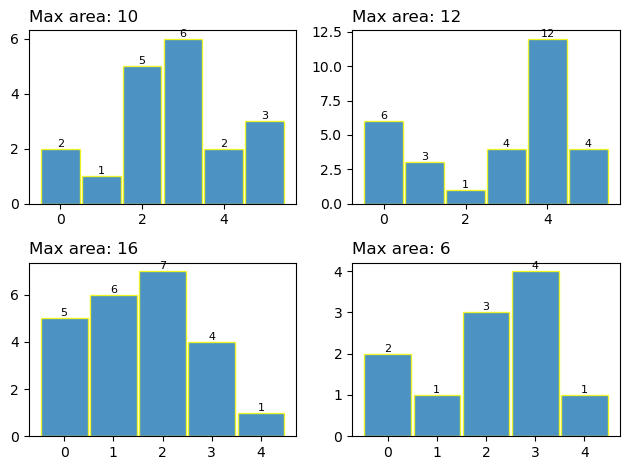
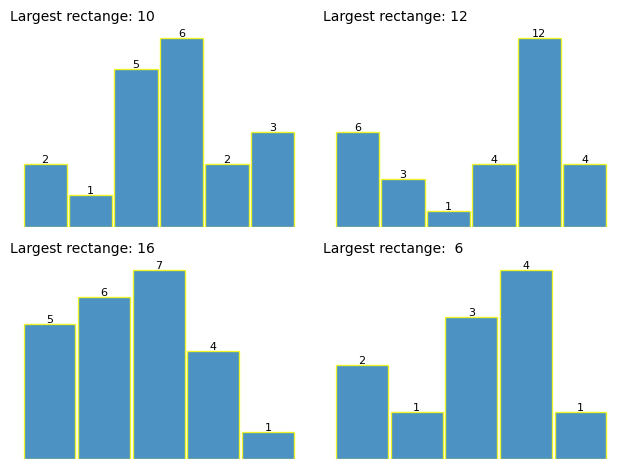
Built site for gh-pages

diff --git a/posts/algorithims/histogram_max_area.html b/posts/algorithims/histogram_max_area.html
@@ -180,7 +180,10 @@ pre > code.sourceCode > span > a:first-child::before { text-decoration: underlin
   <ul>
   <li><a href="#largest-rectangle-under-a-histogram" id="toc-largest-rectangle-under-a-histogram" class="nav-link active" data-scroll-target="#largest-rectangle-under-a-histogram">Largest Rectangle under a histogram</a>
   <ul class="collapse">
-  <li><a href="#a-simple-solution" id="toc-a-simple-solution" class="nav-link" data-scroll-target="#a-simple-solution">A simple solution</a></li>
+  <li><a href="#a-simple-solution" id="toc-a-simple-solution" class="nav-link" data-scroll-target="#a-simple-solution">A simple solution</a>
+  <ul class="collapse">
+  <li><a href="#visuals" id="toc-visuals" class="nav-link" data-scroll-target="#visuals">Visuals</a></li>
+  </ul></li>
   <li><a href="#using-stacks" id="toc-using-stacks" class="nav-link" data-scroll-target="#using-stacks">Using stacks</a></li>
   </ul></li>
   </ul>
@@ -195,7 +198,7 @@ pre > code.sourceCode > span > a:first-child::before { text-decoration: underlin
 <section id="largest-rectangle-under-a-histogram" class="level1">
 <h1>Largest Rectangle under a histogram</h1>
 <p>Problem description: https://leetcode.com/problems/largest-rectangle-in-histogram/</p>
-<div class="cell" data-execution_count="59">
+<div class="cell" data-execution_count="10">
 <div class="sourceCode cell-code" id="cb1"><pre class="sourceCode python code-with-copy"><code class="sourceCode python"><span id="cb1-1"><a href="#cb1-1" aria-hidden="true" tabindex="-1"></a>tests <span class="op">=</span> (</span>
 <span id="cb1-2"><a href="#cb1-2" aria-hidden="true" tabindex="-1"></a>    ([<span class="dv">2</span>, <span class="dv">1</span>, <span class="dv">5</span>, <span class="dv">6</span>, <span class="dv">2</span>, <span class="dv">3</span>], <span class="dv">10</span>),</span>
 <span id="cb1-3"><a href="#cb1-3" aria-hidden="true" tabindex="-1"></a>    ([<span class="dv">6</span>, <span class="dv">3</span>, <span class="dv">1</span>, <span class="dv">4</span>, <span class="dv">12</span>, <span class="dv">4</span>], <span class="dv">12</span>),</span>
@@ -204,20 +207,21 @@ pre > code.sourceCode > span > a:first-child::before { text-decoration: underlin
 <span id="cb1-6"><a href="#cb1-6" aria-hidden="true" tabindex="-1"></a>)</span></code><button title="Copy to Clipboard" class="code-copy-button"><i class="bi"></i></button></pre></div>
 </div>
 <p>Which look like:</p>
-<div class="cell" data-execution_count="60">
+<div class="cell" data-execution_count="11">
 <details>
 <summary>Code</summary>
 <div class="sourceCode cell-code" id="cb2"><pre class="sourceCode python code-with-copy"><code class="sourceCode python"><span id="cb2-1"><a href="#cb2-1" aria-hidden="true" tabindex="-1"></a>fig, axes <span class="op">=</span> plt.subplots(<span class="dv">2</span>, <span class="dv">2</span>, layout<span class="op">=</span><span class="st">"tight"</span>)</span>
 <span id="cb2-2"><a href="#cb2-2" aria-hidden="true" tabindex="-1"></a><span class="cf">for</span> ax, (arr, ans) <span class="kw">in</span> <span class="bu">zip</span>(axes.flatten(), tests):</span>
-<span id="cb2-3"><a href="#cb2-3" aria-hidden="true" tabindex="-1"></a>    bar <span class="op">=</span> ax.bar(</span>
-<span id="cb2-4"><a href="#cb2-4" aria-hidden="true" tabindex="-1"></a>        <span class="bu">range</span>(<span class="bu">len</span>(arr)),</span>
-<span id="cb2-5"><a href="#cb2-5" aria-hidden="true" tabindex="-1"></a>        arr,</span>
-<span id="cb2-6"><a href="#cb2-6" aria-hidden="true" tabindex="-1"></a>        width<span class="op">=</span><span class="fl">0.95</span>,</span>
-<span id="cb2-7"><a href="#cb2-7" aria-hidden="true" tabindex="-1"></a>        alpha<span class="op">=</span><span class="fl">0.8</span>,</span>
-<span id="cb2-8"><a href="#cb2-8" aria-hidden="true" tabindex="-1"></a>        edgecolor<span class="op">=</span><span class="st">"yellow"</span>,</span>
-<span id="cb2-9"><a href="#cb2-9" aria-hidden="true" tabindex="-1"></a>    )</span>
-<span id="cb2-10"><a href="#cb2-10" aria-hidden="true" tabindex="-1"></a>    ax.set_title(<span class="ss">f"Max area: </span><span class="sc">{</span>ans<span class="sc">}</span><span class="ss">"</span>, loc<span class="op">=</span><span class="st">"left"</span>)</span>
-<span id="cb2-11"><a href="#cb2-11" aria-hidden="true" tabindex="-1"></a>    ax.bar_label(bar, fontsize<span class="op">=</span><span class="dv">8</span>)</span></code><button title="Copy to Clipboard" class="code-copy-button"><i class="bi"></i></button></pre></div>
+<span id="cb2-3"><a href="#cb2-3" aria-hidden="true" tabindex="-1"></a>    ax.set_axis_off()</span>
+<span id="cb2-4"><a href="#cb2-4" aria-hidden="true" tabindex="-1"></a>    bar <span class="op">=</span> ax.bar(</span>
+<span id="cb2-5"><a href="#cb2-5" aria-hidden="true" tabindex="-1"></a>        <span class="bu">range</span>(<span class="bu">len</span>(arr)),</span>
+<span id="cb2-6"><a href="#cb2-6" aria-hidden="true" tabindex="-1"></a>        arr,</span>
+<span id="cb2-7"><a href="#cb2-7" aria-hidden="true" tabindex="-1"></a>        width<span class="op">=</span><span class="fl">0.95</span>,</span>
+<span id="cb2-8"><a href="#cb2-8" aria-hidden="true" tabindex="-1"></a>        alpha<span class="op">=</span><span class="fl">0.8</span>,</span>
+<span id="cb2-9"><a href="#cb2-9" aria-hidden="true" tabindex="-1"></a>        edgecolor<span class="op">=</span><span class="st">"yellow"</span>,</span>
+<span id="cb2-10"><a href="#cb2-10" aria-hidden="true" tabindex="-1"></a>    )</span>
+<span id="cb2-11"><a href="#cb2-11" aria-hidden="true" tabindex="-1"></a>    ax.set_title(<span class="ss">f"Largest rectange: </span><span class="sc">{</span>ans<span class="sc">:2}</span><span class="ss">"</span>, loc<span class="op">=</span><span class="st">"left"</span>, fontsize<span class="op">=</span><span class="dv">10</span>)</span>
+<span id="cb2-12"><a href="#cb2-12" aria-hidden="true" tabindex="-1"></a>    ax.bar_label(bar, fontsize<span class="op">=</span><span class="dv">8</span>)</span></code><button title="Copy to Clipboard" class="code-copy-button"><i class="bi"></i></button></pre></div>
 </details>
 <div class="cell-output cell-output-display">
 <p><img src="histogram_max_area_files/figure-html/cell-4-output-1.png" class="img-fluid"></p>
@@ -225,11 +229,16 @@ pre > code.sourceCode > span > a:first-child::before { text-decoration: underlin
 </div>
 <section id="a-simple-solution" class="level2">
 <h2 class="anchored" data-anchor-id="a-simple-solution">A simple solution</h2>
-<p>We can brute force this by generating all possible rectangles in the histogram.</p>
+<p>We can brute force this by generating the largest possible rectangle at every item in the array.</p>
 <p>I’m doing a simple alogrithm here:</p>
-<p>For each N in the arry: find the left and right boundary of the largest possible rectangle this gives us the width, which we multiple by N to get the area</p>
-<div class="cell" data-execution_count="185">
-<div class="sourceCode cell-code" id="cb3"><pre class="sourceCode python code-with-copy"><code class="sourceCode python"><span id="cb3-1"><a href="#cb3-1" aria-hidden="true" tabindex="-1"></a><span class="kw">def</span> find_boundary(idx: <span class="bu">int</span>, arr, debug<span class="op">=</span><span class="va">False</span>) <span class="op">-&gt;</span> <span class="bu">tuple</span>[<span class="bu">int</span>, <span class="bu">int</span>]:</span>
+<p>For each N in the arry:</p>
+<ul>
+<li>find the left and right boundary of the largest possible rectangle</li>
+<li>this gives us the width, exluding the width of N itself (adding 1 to ad back N)</li>
+<li>so now we have the width, and the height is just the value N in the array</li>
+</ul>
+<div class="cell" data-execution_count="12">
+<div class="sourceCode cell-code" id="cb3"><pre class="sourceCode python code-with-copy"><code class="sourceCode python"><span id="cb3-1"><a href="#cb3-1" aria-hidden="true" tabindex="-1"></a><span class="kw">def</span> find_boundary(idx: <span class="bu">int</span>, arr: <span class="bu">list</span>[<span class="bu">int</span>]) <span class="op">-&gt;</span> <span class="bu">tuple</span>[<span class="bu">int</span>, <span class="bu">int</span>]:</span>
 <span id="cb3-2"><a href="#cb3-2" aria-hidden="true" tabindex="-1"></a>    <span class="co">"""</span></span>
 <span id="cb3-3"><a href="#cb3-3" aria-hidden="true" tabindex="-1"></a><span class="co">    Example:</span></span>
 <span id="cb3-4"><a href="#cb3-4" aria-hidden="true" tabindex="-1"></a><span class="co">        idx 2 for [2, 1, 5, 6, 2, 3] returns (2, 3)</span></span>
@@ -238,35 +247,37 @@ pre > code.sourceCode > span > a:first-child::before { text-decoration: underlin
 <span id="cb3-7"><a href="#cb3-7" aria-hidden="true" tabindex="-1"></a><span class="co">    """</span></span>
 <span id="cb3-8"><a href="#cb3-8" aria-hidden="true" tabindex="-1"></a></span>
 <span id="cb3-9"><a href="#cb3-9" aria-hidden="true" tabindex="-1"></a>    <span class="co"># find left boundary (can be itself)</span></span>
-<span id="cb3-10"><a href="#cb3-10" aria-hidden="true" tabindex="-1"></a>    left <span class="op">=</span> <span class="dv">0</span>  <span class="co">#</span></span>
+<span id="cb3-10"><a href="#cb3-10" aria-hidden="true" tabindex="-1"></a>    left <span class="op">=</span> <span class="dv">0</span></span>
 <span id="cb3-11"><a href="#cb3-11" aria-hidden="true" tabindex="-1"></a>    <span class="cf">if</span> idx <span class="op">==</span> left:</span>
-<span id="cb3-12"><a href="#cb3-12" aria-hidden="true" tabindex="-1"></a>        <span class="cf">pass</span>  <span class="co"># at left edge, so left = 0</span></span>
+<span id="cb3-12"><a href="#cb3-12" aria-hidden="true" tabindex="-1"></a>        <span class="cf">pass</span>  <span class="co"># deals with the left edge</span></span>
 <span id="cb3-13"><a href="#cb3-13" aria-hidden="true" tabindex="-1"></a>    <span class="cf">else</span>:</span>
-<span id="cb3-14"><a href="#cb3-14" aria-hidden="true" tabindex="-1"></a>        <span class="cf">for</span> j <span class="kw">in</span> <span class="bu">range</span>(idx <span class="op">-</span> <span class="dv">1</span>, <span class="op">-</span><span class="dv">1</span>, <span class="op">-</span><span class="dv">1</span>):</span>
-<span id="cb3-15"><a href="#cb3-15" aria-hidden="true" tabindex="-1"></a>            <span class="cf">if</span> arr[j] <span class="op">&lt;</span> arr[idx]:</span>
-<span id="cb3-16"><a href="#cb3-16" aria-hidden="true" tabindex="-1"></a>                left <span class="op">=</span> j <span class="op">+</span> <span class="dv">1</span></span>
-<span id="cb3-17"><a href="#cb3-17" aria-hidden="true" tabindex="-1"></a>                <span class="co"># exit the for loop once the first left boundary is found</span></span>
-<span id="cb3-18"><a href="#cb3-18" aria-hidden="true" tabindex="-1"></a>                <span class="cf">break</span></span>
+<span id="cb3-14"><a href="#cb3-14" aria-hidden="true" tabindex="-1"></a>        <span class="co"># march leftwards all the way to zero:</span></span>
+<span id="cb3-15"><a href="#cb3-15" aria-hidden="true" tabindex="-1"></a>        <span class="cf">for</span> j <span class="kw">in</span> <span class="bu">range</span>(idx <span class="op">-</span> <span class="dv">1</span>, <span class="op">-</span><span class="dv">1</span>, <span class="op">-</span><span class="dv">1</span>):</span>
+<span id="cb3-16"><a href="#cb3-16" aria-hidden="true" tabindex="-1"></a>            <span class="cf">if</span> arr[j] <span class="op">&lt;</span> arr[idx]:</span>
+<span id="cb3-17"><a href="#cb3-17" aria-hidden="true" tabindex="-1"></a>                left <span class="op">=</span> j <span class="op">+</span> <span class="dv">1</span>  <span class="co"># adding 1 to exlude smaller item</span></span>
+<span id="cb3-18"><a href="#cb3-18" aria-hidden="true" tabindex="-1"></a>                <span class="cf">break</span>  <span class="co"># exit loop once the first boundary found</span></span>
 <span id="cb3-19"><a href="#cb3-19" aria-hidden="true" tabindex="-1"></a></span>
 <span id="cb3-20"><a href="#cb3-20" aria-hidden="true" tabindex="-1"></a>    <span class="co"># find right boundary (can be itself)</span></span>
-<span id="cb3-21"><a href="#cb3-21" aria-hidden="true" tabindex="-1"></a>    right <span class="op">=</span> <span class="bu">len</span>(arr) <span class="op">-</span> <span class="dv">1</span>  <span class="co"># default value</span></span>
+<span id="cb3-21"><a href="#cb3-21" aria-hidden="true" tabindex="-1"></a>    right <span class="op">=</span> <span class="bu">len</span>(arr) <span class="op">-</span> <span class="dv">1</span>  <span class="co"># deal with the right edge</span></span>
 <span id="cb3-22"><a href="#cb3-22" aria-hidden="true" tabindex="-1"></a></span>
 <span id="cb3-23"><a href="#cb3-23" aria-hidden="true" tabindex="-1"></a>    <span class="cf">if</span> idx <span class="op">==</span> right:</span>
-<span id="cb3-24"><a href="#cb3-24" aria-hidden="true" tabindex="-1"></a>        <span class="cf">pass</span>  <span class="co"># at right edge already, ro right = rightmost idx</span></span>
+<span id="cb3-24"><a href="#cb3-24" aria-hidden="true" tabindex="-1"></a>        <span class="cf">pass</span>  <span class="co"># at right edge already</span></span>
 <span id="cb3-25"><a href="#cb3-25" aria-hidden="true" tabindex="-1"></a>    <span class="cf">else</span>:</span>
-<span id="cb3-26"><a href="#cb3-26" aria-hidden="true" tabindex="-1"></a>        <span class="cf">for</span> j <span class="kw">in</span> <span class="bu">range</span>(idx, <span class="bu">len</span>(arr)):</span>
-<span id="cb3-27"><a href="#cb3-27" aria-hidden="true" tabindex="-1"></a>            <span class="cf">if</span> arr[j] <span class="op">&lt;</span> arr[idx]:</span>
-<span id="cb3-28"><a href="#cb3-28" aria-hidden="true" tabindex="-1"></a>                right <span class="op">=</span> j <span class="op">-</span> <span class="dv">1</span></span>
-<span id="cb3-29"><a href="#cb3-29" aria-hidden="true" tabindex="-1"></a>                <span class="cf">break</span></span>
-<span id="cb3-30"><a href="#cb3-30" aria-hidden="true" tabindex="-1"></a></span>
-<span id="cb3-31"><a href="#cb3-31" aria-hidden="true" tabindex="-1"></a>    <span class="cf">return</span> left, right</span>
-<span id="cb3-32"><a href="#cb3-32" aria-hidden="true" tabindex="-1"></a></span>
-<span id="cb3-33"><a href="#cb3-33" aria-hidden="true" tabindex="-1"></a><span class="co"># testing this for the first arrary in the tests</span></span>
-<span id="cb3-34"><a href="#cb3-34" aria-hidden="true" tabindex="-1"></a><span class="cf">for</span> arr, ans <span class="kw">in</span> tests:</span>
-<span id="cb3-35"><a href="#cb3-35" aria-hidden="true" tabindex="-1"></a>    <span class="bu">print</span>(<span class="st">"-----"</span>, arr, <span class="st">"---------"</span>)</span>
-<span id="cb3-36"><a href="#cb3-36" aria-hidden="true" tabindex="-1"></a>    <span class="cf">for</span> i <span class="kw">in</span> <span class="bu">range</span>(<span class="bu">len</span>(arr)):</span>
-<span id="cb3-37"><a href="#cb3-37" aria-hidden="true" tabindex="-1"></a>        <span class="bu">print</span>(i, arr[i], find_boundary(i, arr))</span>
-<span id="cb3-38"><a href="#cb3-38" aria-hidden="true" tabindex="-1"></a>    <span class="cf">break</span></span></code><button title="Copy to Clipboard" class="code-copy-button"><i class="bi"></i></button></pre></div>
+<span id="cb3-26"><a href="#cb3-26" aria-hidden="true" tabindex="-1"></a>        <span class="co"># march rightwards</span></span>
+<span id="cb3-27"><a href="#cb3-27" aria-hidden="true" tabindex="-1"></a>        <span class="cf">for</span> j <span class="kw">in</span> <span class="bu">range</span>(idx, <span class="bu">len</span>(arr)):</span>
+<span id="cb3-28"><a href="#cb3-28" aria-hidden="true" tabindex="-1"></a>            <span class="cf">if</span> arr[j] <span class="op">&lt;</span> arr[idx]:</span>
+<span id="cb3-29"><a href="#cb3-29" aria-hidden="true" tabindex="-1"></a>                right <span class="op">=</span> j <span class="op">-</span> <span class="dv">1</span>  <span class="co"># subtracting 1 to exclude the smaller item</span></span>
+<span id="cb3-30"><a href="#cb3-30" aria-hidden="true" tabindex="-1"></a>                <span class="cf">break</span></span>
+<span id="cb3-31"><a href="#cb3-31" aria-hidden="true" tabindex="-1"></a></span>
+<span id="cb3-32"><a href="#cb3-32" aria-hidden="true" tabindex="-1"></a>    <span class="cf">return</span> left, right</span>
+<span id="cb3-33"><a href="#cb3-33" aria-hidden="true" tabindex="-1"></a></span>
+<span id="cb3-34"><a href="#cb3-34" aria-hidden="true" tabindex="-1"></a></span>
+<span id="cb3-35"><a href="#cb3-35" aria-hidden="true" tabindex="-1"></a><span class="co"># testing this for the first arrary in the tests</span></span>
+<span id="cb3-36"><a href="#cb3-36" aria-hidden="true" tabindex="-1"></a><span class="cf">for</span> arr, ans <span class="kw">in</span> tests:</span>
+<span id="cb3-37"><a href="#cb3-37" aria-hidden="true" tabindex="-1"></a>    <span class="bu">print</span>(<span class="st">"-----"</span>, arr, <span class="st">"---------"</span>)</span>
+<span id="cb3-38"><a href="#cb3-38" aria-hidden="true" tabindex="-1"></a>    <span class="cf">for</span> i <span class="kw">in</span> <span class="bu">range</span>(<span class="bu">len</span>(arr)):</span>
+<span id="cb3-39"><a href="#cb3-39" aria-hidden="true" tabindex="-1"></a>        <span class="bu">print</span>(i, arr[i], find_boundary(i, arr))</span>
+<span id="cb3-40"><a href="#cb3-40" aria-hidden="true" tabindex="-1"></a>    <span class="cf">break</span></span></code><button title="Copy to Clipboard" class="code-copy-button"><i class="bi"></i></button></pre></div>
 <div class="cell-output cell-output-stdout">
 <pre><code>----- [2, 1, 5, 6, 2, 3] ---------
 0 2 (0, 0)
@@ -279,48 +290,119 @@ pre > code.sourceCode > span > a:first-child::before { text-decoration: underlin
 </div>
 <p>The <code>find_boundary</code> func is working, so now its easy to get the area of the max rectangle.</p>
 <p>The below function iterates through every item in the array, calculates the area of the largest rectangle at that point, and updates the max area function.</p>
-<div class="cell" data-execution_count="183">
-<div class="sourceCode cell-code" id="cb5"><pre class="sourceCode python code-with-copy"><code class="sourceCode python"><span id="cb5-1"><a href="#cb5-1" aria-hidden="true" tabindex="-1"></a><span class="kw">def</span> max_area(arr<span class="op">=</span>arr):</span>
+<div class="cell" data-execution_count="13">
+<div class="sourceCode cell-code" id="cb5"><pre class="sourceCode python code-with-copy"><code class="sourceCode python"><span id="cb5-1"><a href="#cb5-1" aria-hidden="true" tabindex="-1"></a><span class="kw">def</span> max_area(arr: <span class="bu">list</span>[<span class="bu">int</span>], viz: <span class="bu">bool</span> <span class="op">=</span> <span class="va">False</span>) <span class="op">-&gt;</span> <span class="bu">int</span>:</span>
 <span id="cb5-2"><a href="#cb5-2" aria-hidden="true" tabindex="-1"></a>    <span class="co">"""returns the area of the biggest rectangle"""</span></span>
 <span id="cb5-3"><a href="#cb5-3" aria-hidden="true" tabindex="-1"></a>    max_area <span class="op">=</span> <span class="dv">0</span></span>
-<span id="cb5-4"><a href="#cb5-4" aria-hidden="true" tabindex="-1"></a>    <span class="cf">for</span> i <span class="kw">in</span> <span class="bu">range</span>(<span class="bu">len</span>(arr)):</span>
-<span id="cb5-5"><a href="#cb5-5" aria-hidden="true" tabindex="-1"></a>        left, right <span class="op">=</span> find_boundary(i, arr)</span>
-<span id="cb5-6"><a href="#cb5-6" aria-hidden="true" tabindex="-1"></a>        <span class="co"># adding 1 to width as when we calc (right - left) it excludes itself</span></span>
-<span id="cb5-7"><a href="#cb5-7" aria-hidden="true" tabindex="-1"></a>        width <span class="op">=</span> <span class="dv">1</span> <span class="op">+</span> right <span class="op">-</span> left</span>
-<span id="cb5-8"><a href="#cb5-8" aria-hidden="true" tabindex="-1"></a>        max_area <span class="op">=</span> <span class="bu">max</span>(max_area, arr[i] <span class="op">*</span> width)</span>
-<span id="cb5-9"><a href="#cb5-9" aria-hidden="true" tabindex="-1"></a>    </span>
-<span id="cb5-10"><a href="#cb5-10" aria-hidden="true" tabindex="-1"></a>    <span class="cf">return</span> max_area</span>
-<span id="cb5-11"><a href="#cb5-11" aria-hidden="true" tabindex="-1"></a></span>
-<span id="cb5-12"><a href="#cb5-12" aria-hidden="true" tabindex="-1"></a><span class="cf">for</span> arr, ans <span class="kw">in</span> tests:</span>
-<span id="cb5-13"><a href="#cb5-13" aria-hidden="true" tabindex="-1"></a>    <span class="cf">assert</span> max_area(arr) <span class="op">==</span> ans</span></code><button title="Copy to Clipboard" class="code-copy-button"><i class="bi"></i></button></pre></div>
+<span id="cb5-4"><a href="#cb5-4" aria-hidden="true" tabindex="-1"></a>    max_idx <span class="op">=</span> <span class="va">None</span></span>
+<span id="cb5-5"><a href="#cb5-5" aria-hidden="true" tabindex="-1"></a></span>
+<span id="cb5-6"><a href="#cb5-6" aria-hidden="true" tabindex="-1"></a>    <span class="cf">for</span> i <span class="kw">in</span> <span class="bu">range</span>(<span class="bu">len</span>(arr)):</span>
+<span id="cb5-7"><a href="#cb5-7" aria-hidden="true" tabindex="-1"></a>        left, right <span class="op">=</span> find_boundary(i, arr)</span>
+<span id="cb5-8"><a href="#cb5-8" aria-hidden="true" tabindex="-1"></a>        <span class="co"># adding 1 to width as when we calc (right - left) it excludes itself</span></span>
+<span id="cb5-9"><a href="#cb5-9" aria-hidden="true" tabindex="-1"></a>        width <span class="op">=</span> <span class="dv">1</span> <span class="op">+</span> right <span class="op">-</span> left</span>
+<span id="cb5-10"><a href="#cb5-10" aria-hidden="true" tabindex="-1"></a></span>
+<span id="cb5-11"><a href="#cb5-11" aria-hidden="true" tabindex="-1"></a>        new_area <span class="op">=</span> arr[i] <span class="op">*</span> width</span>
+<span id="cb5-12"><a href="#cb5-12" aria-hidden="true" tabindex="-1"></a>        <span class="cf">if</span> new_area <span class="op">&gt;</span> max_area:</span>
+<span id="cb5-13"><a href="#cb5-13" aria-hidden="true" tabindex="-1"></a>            max_area <span class="op">=</span> new_area</span>
+<span id="cb5-14"><a href="#cb5-14" aria-hidden="true" tabindex="-1"></a>            max_idx <span class="op">=</span> i</span>
+<span id="cb5-15"><a href="#cb5-15" aria-hidden="true" tabindex="-1"></a></span>
+<span id="cb5-16"><a href="#cb5-16" aria-hidden="true" tabindex="-1"></a>    <span class="cf">if</span> viz:</span>
+<span id="cb5-17"><a href="#cb5-17" aria-hidden="true" tabindex="-1"></a>        <span class="cf">return</span> max_idx, max_area</span>
+<span id="cb5-18"><a href="#cb5-18" aria-hidden="true" tabindex="-1"></a>    <span class="cf">else</span>:</span>
+<span id="cb5-19"><a href="#cb5-19" aria-hidden="true" tabindex="-1"></a>        <span class="cf">return</span> max_area</span>
+<span id="cb5-20"><a href="#cb5-20" aria-hidden="true" tabindex="-1"></a></span>
+<span id="cb5-21"><a href="#cb5-21" aria-hidden="true" tabindex="-1"></a></span>
+<span id="cb5-22"><a href="#cb5-22" aria-hidden="true" tabindex="-1"></a><span class="cf">for</span> arr, ans <span class="kw">in</span> tests:</span>
+<span id="cb5-23"><a href="#cb5-23" aria-hidden="true" tabindex="-1"></a>    <span class="cf">assert</span> max_area(arr) <span class="op">==</span> ans</span>
+<span id="cb5-24"><a href="#cb5-24" aria-hidden="true" tabindex="-1"></a>    <span class="bu">print</span>(<span class="ss">f"</span><span class="sc">{</span>arr<span class="sc">}</span><span class="ss"> ----&gt; </span><span class="sc">{</span>max_area(arr)<span class="sc">}</span><span class="ss">"</span>)</span>
+<span id="cb5-25"><a href="#cb5-25" aria-hidden="true" tabindex="-1"></a><span class="bu">print</span>(<span class="ss">f"all </span><span class="sc">{</span><span class="bu">len</span>(tests)<span class="sc">}</span><span class="ss"> tests passed!"</span>)</span></code><button title="Copy to Clipboard" class="code-copy-button"><i class="bi"></i></button></pre></div>
+<div class="cell-output cell-output-stdout">
+<pre><code>[2, 1, 5, 6, 2, 3] ----&gt; 10
+[6, 3, 1, 4, 12, 4] ----&gt; 12
+[5, 6, 7, 4, 1] ----&gt; 16
+[2, 1, 3, 4, 1] ----&gt; 6
+all 4 tests passed!</code></pre>
 </div>
+</div>
+<p>That was pretty straight forward, though a bit verbose. Now an excercise in plotting this visually:</p>
+<section id="visuals" class="level3">
+<h3 class="anchored" data-anchor-id="visuals">Visuals</h3>
+<p>Using matplotlib to plot te max rectangle at every position of the array…</p>
+<p>Copied the plot code above and added a func to highlight the largest rectange:</p>
+<div class="cell" data-execution_count="17">
+<div class="sourceCode cell-code" id="cb7"><pre class="sourceCode python code-with-copy"><code class="sourceCode python"><span id="cb7-1"><a href="#cb7-1" aria-hidden="true" tabindex="-1"></a><span class="co"># to use to show different rectangele with diff colors and fills</span></span>
+<span id="cb7-2"><a href="#cb7-2" aria-hidden="true" tabindex="-1"></a>colors <span class="op">=</span> <span class="bu">list</span>(mcolors.TABLEAU_COLORS.values())</span>
+<span id="cb7-3"><a href="#cb7-3" aria-hidden="true" tabindex="-1"></a>hatches <span class="op">=</span> [<span class="st">"/"</span>, <span class="st">"</span><span class="ch">\\</span><span class="st">"</span>, <span class="st">"|"</span>, <span class="st">"-"</span>, <span class="st">"+"</span>, <span class="st">"x"</span>, <span class="st">"o"</span>, <span class="st">"O"</span>, <span class="st">"."</span>, <span class="st">"*"</span>]</span></code><button title="Copy to Clipboard" class="code-copy-button"><i class="bi"></i></button></pre></div>
+</div>
+<div class="cell" data-execution_count="15">
+<details>
+<summary>Code</summary>
+<div class="sourceCode cell-code" id="cb8"><pre class="sourceCode python code-with-copy"><code class="sourceCode python"><span id="cb8-1"><a href="#cb8-1" aria-hidden="true" tabindex="-1"></a>fig, axes <span class="op">=</span> plt.subplots(<span class="dv">2</span>, <span class="dv">2</span>, layout<span class="op">=</span><span class="st">"tight"</span>)</span>
+<span id="cb8-2"><a href="#cb8-2" aria-hidden="true" tabindex="-1"></a><span class="cf">for</span> ax, (arr, ans) <span class="kw">in</span> <span class="bu">zip</span>(axes.flatten(), tests):</span>
+<span id="cb8-3"><a href="#cb8-3" aria-hidden="true" tabindex="-1"></a>    ax.set_axis_off()</span>
+<span id="cb8-4"><a href="#cb8-4" aria-hidden="true" tabindex="-1"></a>    bar <span class="op">=</span> ax.bar(</span>
+<span id="cb8-5"><a href="#cb8-5" aria-hidden="true" tabindex="-1"></a>        <span class="bu">range</span>(<span class="bu">len</span>(arr)),</span>
+<span id="cb8-6"><a href="#cb8-6" aria-hidden="true" tabindex="-1"></a>        arr,</span>
+<span id="cb8-7"><a href="#cb8-7" aria-hidden="true" tabindex="-1"></a>        width<span class="op">=</span><span class="fl">0.95</span>,</span>
+<span id="cb8-8"><a href="#cb8-8" aria-hidden="true" tabindex="-1"></a>        alpha<span class="op">=</span><span class="fl">0.6</span>,</span>
+<span id="cb8-9"><a href="#cb8-9" aria-hidden="true" tabindex="-1"></a>        edgecolor<span class="op">=</span><span class="st">"yellow"</span>,</span>
+<span id="cb8-10"><a href="#cb8-10" aria-hidden="true" tabindex="-1"></a>    )</span>
+<span id="cb8-11"><a href="#cb8-11" aria-hidden="true" tabindex="-1"></a>    ax.set_title(<span class="ss">f"Largest rectange: </span><span class="sc">{</span>ans<span class="sc">:2}</span><span class="ss">"</span>, loc<span class="op">=</span><span class="st">"left"</span>, fontsize<span class="op">=</span><span class="dv">10</span>)</span>
+<span id="cb8-12"><a href="#cb8-12" aria-hidden="true" tabindex="-1"></a>    ax.bar_label(bar, fontsize<span class="op">=</span><span class="dv">8</span>)</span>
+<span id="cb8-13"><a href="#cb8-13" aria-hidden="true" tabindex="-1"></a></span>
+<span id="cb8-14"><a href="#cb8-14" aria-hidden="true" tabindex="-1"></a>    idx, area <span class="op">=</span> max_area(arr, <span class="va">True</span>)</span>
+<span id="cb8-15"><a href="#cb8-15" aria-hidden="true" tabindex="-1"></a></span>
+<span id="cb8-16"><a href="#cb8-16" aria-hidden="true" tabindex="-1"></a>    <span class="cf">for</span> i <span class="kw">in</span> <span class="bu">range</span>(<span class="bu">len</span>(arr)):</span>
+<span id="cb8-17"><a href="#cb8-17" aria-hidden="true" tabindex="-1"></a>        <span class="cf">if</span> i <span class="op">==</span> idx:  <span class="co"># got too messy plotting all the rects</span></span>
+<span id="cb8-18"><a href="#cb8-18" aria-hidden="true" tabindex="-1"></a>            left, right <span class="op">=</span> find_boundary(i, arr)</span>
+<span id="cb8-19"><a href="#cb8-19" aria-hidden="true" tabindex="-1"></a>            width <span class="op">=</span> <span class="dv">1</span> <span class="op">+</span> right <span class="op">-</span> left</span>
+<span id="cb8-20"><a href="#cb8-20" aria-hidden="true" tabindex="-1"></a>            ax.add_patch(</span>
+<span id="cb8-21"><a href="#cb8-21" aria-hidden="true" tabindex="-1"></a>                Rectangle(</span>
+<span id="cb8-22"><a href="#cb8-22" aria-hidden="true" tabindex="-1"></a>                    (left <span class="op">-</span> <span class="fl">0.5</span>, <span class="dv">0</span>),</span>
+<span id="cb8-23"><a href="#cb8-23" aria-hidden="true" tabindex="-1"></a>                    width,</span>
+<span id="cb8-24"><a href="#cb8-24" aria-hidden="true" tabindex="-1"></a>                    arr[i],</span>
+<span id="cb8-25"><a href="#cb8-25" aria-hidden="true" tabindex="-1"></a>                    alpha<span class="op">=</span><span class="fl">0.35</span>,</span>
+<span id="cb8-26"><a href="#cb8-26" aria-hidden="true" tabindex="-1"></a>                    facecolor<span class="op">=</span><span class="st">"purple"</span>,</span>
+<span id="cb8-27"><a href="#cb8-27" aria-hidden="true" tabindex="-1"></a>                    ls<span class="op">=</span><span class="st">"--"</span>,</span>
+<span id="cb8-28"><a href="#cb8-28" aria-hidden="true" tabindex="-1"></a>                    lw<span class="op">=</span><span class="dv">2</span>,</span>
+<span id="cb8-29"><a href="#cb8-29" aria-hidden="true" tabindex="-1"></a>                    hatch<span class="op">=</span>hatches[<span class="dv">5</span>],</span>
+<span id="cb8-30"><a href="#cb8-30" aria-hidden="true" tabindex="-1"></a>                )</span>
+<span id="cb8-31"><a href="#cb8-31" aria-hidden="true" tabindex="-1"></a>            )</span></code><button title="Copy to Clipboard" class="code-copy-button"><i class="bi"></i></button></pre></div>
+</details>
+<div class="cell-output cell-output-display">
+<p><img src="histogram_max_area_files/figure-html/cell-8-output-1.png" class="img-fluid"></p>
+</div>
+</div>
+</section>
 </section>
 <section id="using-stacks" class="level2">
 <h2 class="anchored" data-anchor-id="using-stacks">Using stacks</h2>
 <p>A work in progress…</p>
-<div class="cell" data-execution_count="184">
-<div class="sourceCode cell-code" id="cb6"><pre class="sourceCode python code-with-copy"><code class="sourceCode python"><span id="cb6-1"><a href="#cb6-1" aria-hidden="true" tabindex="-1"></a><span class="kw">def</span> histogram_max_area(arr):</span>
-<span id="cb6-2"><a href="#cb6-2" aria-hidden="true" tabindex="-1"></a>    stack <span class="op">=</span> [<span class="op">-</span><span class="dv">1</span>]</span>
-<span id="cb6-3"><a href="#cb6-3" aria-hidden="true" tabindex="-1"></a>    max_area <span class="op">=</span> <span class="dv">0</span></span>
-<span id="cb6-4"><a href="#cb6-4" aria-hidden="true" tabindex="-1"></a>    <span class="cf">for</span> i <span class="kw">in</span> <span class="bu">range</span>(<span class="bu">len</span>(arr)):</span>
-<span id="cb6-5"><a href="#cb6-5" aria-hidden="true" tabindex="-1"></a>        <span class="cf">while</span> stack[<span class="op">-</span><span class="dv">1</span>] <span class="op">!=</span> <span class="op">-</span><span class="dv">1</span> <span class="kw">and</span> arr[stack[<span class="op">-</span><span class="dv">1</span>]] <span class="op">&gt;=</span> arr[i]:</span>
-<span id="cb6-6"><a href="#cb6-6" aria-hidden="true" tabindex="-1"></a>            current_height <span class="op">=</span> arr[stack.pop()]</span>
-<span id="cb6-7"><a href="#cb6-7" aria-hidden="true" tabindex="-1"></a>            current_width <span class="op">=</span> i <span class="op">-</span> stack[<span class="op">-</span><span class="dv">1</span>] <span class="op">-</span> <span class="dv">1</span></span>
-<span id="cb6-8"><a href="#cb6-8" aria-hidden="true" tabindex="-1"></a>            max_area <span class="op">=</span> <span class="bu">max</span>(max_area, current_height <span class="op">*</span> current_width)</span>
-<span id="cb6-9"><a href="#cb6-9" aria-hidden="true" tabindex="-1"></a>        stack.append(i)</span>
-<span id="cb6-10"><a href="#cb6-10" aria-hidden="true" tabindex="-1"></a></span>
-<span id="cb6-11"><a href="#cb6-11" aria-hidden="true" tabindex="-1"></a>    <span class="cf">while</span> stack[<span class="op">-</span><span class="dv">1</span>] <span class="op">!=</span> <span class="op">-</span><span class="dv">1</span>:</span>
-<span id="cb6-12"><a href="#cb6-12" aria-hidden="true" tabindex="-1"></a>        current_height <span class="op">=</span> arr[stack.pop()]</span>
-<span id="cb6-13"><a href="#cb6-13" aria-hidden="true" tabindex="-1"></a>        current_width <span class="op">=</span> <span class="bu">len</span>(arr) <span class="op">-</span> stack[<span class="op">-</span><span class="dv">1</span>] <span class="op">-</span> <span class="dv">1</span></span>
-<span id="cb6-14"><a href="#cb6-14" aria-hidden="true" tabindex="-1"></a>        max_area <span class="op">=</span> <span class="bu">max</span>(max_area, current_height <span class="op">*</span> current_width)</span>
-<span id="cb6-15"><a href="#cb6-15" aria-hidden="true" tabindex="-1"></a>    <span class="cf">return</span> max_area</span>
-<span id="cb6-16"><a href="#cb6-16" aria-hidden="true" tabindex="-1"></a></span>
-<span id="cb6-17"><a href="#cb6-17" aria-hidden="true" tabindex="-1"></a></span>
-<span id="cb6-18"><a href="#cb6-18" aria-hidden="true" tabindex="-1"></a><span class="cf">for</span> arr, ans <span class="kw">in</span> tests:</span>
-<span id="cb6-19"><a href="#cb6-19" aria-hidden="true" tabindex="-1"></a>    <span class="cf">assert</span> histogram_max_area(arr) <span class="op">==</span> ans</span>
-<span id="cb6-20"><a href="#cb6-20" aria-hidden="true" tabindex="-1"></a>    <span class="bu">print</span>(<span class="ss">f"</span><span class="sc">{</span>arr<span class="sc">}</span><span class="ss"> ----&gt; </span><span class="sc">{</span>ans<span class="sc">}</span><span class="ss">"</span>)</span>
-<span id="cb6-21"><a href="#cb6-21" aria-hidden="true" tabindex="-1"></a></span>
-<span id="cb6-22"><a href="#cb6-22" aria-hidden="true" tabindex="-1"></a><span class="bu">print</span>(<span class="ss">f"all </span><span class="sc">{</span><span class="bu">len</span>(tests)<span class="sc">}</span><span class="ss"> tests passed!"</span>)</span></code><button title="Copy to Clipboard" class="code-copy-button"><i class="bi"></i></button></pre></div>
+<p>Instead of relooping through the array, we can use a stack to only go through the array once.</p>
+<div class="cell" data-execution_count="19">
+<div class="sourceCode cell-code" id="cb9"><pre class="sourceCode python code-with-copy"><code class="sourceCode python"><span id="cb9-1"><a href="#cb9-1" aria-hidden="true" tabindex="-1"></a><span class="kw">def</span> histogram_max_area(arr):</span>
+<span id="cb9-2"><a href="#cb9-2" aria-hidden="true" tabindex="-1"></a>    stack <span class="op">=</span> [<span class="op">-</span><span class="dv">1</span>]  <span class="co"># the stop or sentinel value</span></span>
+<span id="cb9-3"><a href="#cb9-3" aria-hidden="true" tabindex="-1"></a>    max_area <span class="op">=</span> <span class="dv">0</span></span>
+<span id="cb9-4"><a href="#cb9-4" aria-hidden="true" tabindex="-1"></a></span>
+<span id="cb9-5"><a href="#cb9-5" aria-hidden="true" tabindex="-1"></a>    <span class="cf">for</span> i <span class="kw">in</span> <span class="bu">range</span>(<span class="bu">len</span>(arr)):</span>
+<span id="cb9-6"><a href="#cb9-6" aria-hidden="true" tabindex="-1"></a>        <span class="cf">while</span> stack[<span class="op">-</span><span class="dv">1</span>] <span class="op">!=</span> <span class="op">-</span><span class="dv">1</span> <span class="kw">and</span> arr[stack[<span class="op">-</span><span class="dv">1</span>]] <span class="op">&gt;=</span> arr[i]:</span>
+<span id="cb9-7"><a href="#cb9-7" aria-hidden="true" tabindex="-1"></a>            current_height <span class="op">=</span> arr[stack.pop()]</span>
+<span id="cb9-8"><a href="#cb9-8" aria-hidden="true" tabindex="-1"></a>            current_width <span class="op">=</span> i <span class="op">-</span> stack[<span class="op">-</span><span class="dv">1</span>] <span class="op">-</span> <span class="dv">1</span></span>
+<span id="cb9-9"><a href="#cb9-9" aria-hidden="true" tabindex="-1"></a>            max_area <span class="op">=</span> <span class="bu">max</span>(max_area, current_height <span class="op">*</span> current_width)</span>
+<span id="cb9-10"><a href="#cb9-10" aria-hidden="true" tabindex="-1"></a>        stack.append(i)</span>
+<span id="cb9-11"><a href="#cb9-11" aria-hidden="true" tabindex="-1"></a></span>
+<span id="cb9-12"><a href="#cb9-12" aria-hidden="true" tabindex="-1"></a>    <span class="cf">while</span> stack[<span class="op">-</span><span class="dv">1</span>] <span class="op">!=</span> <span class="op">-</span><span class="dv">1</span>:</span>
+<span id="cb9-13"><a href="#cb9-13" aria-hidden="true" tabindex="-1"></a>        current_height <span class="op">=</span> arr[stack.pop()]</span>
+<span id="cb9-14"><a href="#cb9-14" aria-hidden="true" tabindex="-1"></a>        current_width <span class="op">=</span> <span class="bu">len</span>(arr) <span class="op">-</span> stack[<span class="op">-</span><span class="dv">1</span>] <span class="op">-</span> <span class="dv">1</span></span>
+<span id="cb9-15"><a href="#cb9-15" aria-hidden="true" tabindex="-1"></a>        max_area <span class="op">=</span> <span class="bu">max</span>(max_area, current_height <span class="op">*</span> current_width)</span>
+<span id="cb9-16"><a href="#cb9-16" aria-hidden="true" tabindex="-1"></a>    <span class="cf">return</span> max_area</span>
+<span id="cb9-17"><a href="#cb9-17" aria-hidden="true" tabindex="-1"></a></span>
+<span id="cb9-18"><a href="#cb9-18" aria-hidden="true" tabindex="-1"></a></span>
+<span id="cb9-19"><a href="#cb9-19" aria-hidden="true" tabindex="-1"></a><span class="cf">for</span> arr, ans <span class="kw">in</span> tests:</span>
+<span id="cb9-20"><a href="#cb9-20" aria-hidden="true" tabindex="-1"></a>    <span class="cf">assert</span> histogram_max_area(arr) <span class="op">==</span> ans</span>
+<span id="cb9-21"><a href="#cb9-21" aria-hidden="true" tabindex="-1"></a>    <span class="bu">print</span>(<span class="ss">f"</span><span class="sc">{</span>arr<span class="sc">}</span><span class="ss"> ----&gt; </span><span class="sc">{</span>ans<span class="sc">}</span><span class="ss">"</span>)</span>
+<span id="cb9-22"><a href="#cb9-22" aria-hidden="true" tabindex="-1"></a></span>
+<span id="cb9-23"><a href="#cb9-23" aria-hidden="true" tabindex="-1"></a><span class="bu">print</span>(<span class="ss">f"all </span><span class="sc">{</span><span class="bu">len</span>(tests)<span class="sc">}</span><span class="ss"> tests passed!"</span>)</span></code><button title="Copy to Clipboard" class="code-copy-button"><i class="bi"></i></button></pre></div>
 <div class="cell-output cell-output-stdout">
 <pre><code>[2, 1, 5, 6, 2, 3] ----&gt; 10
 [6, 3, 1, 4, 12, 4] ----&gt; 12

diff --git a/index.html b/index.html
@@ -170,7 +170,7 @@ ul.task-list li input[type="checkbox"] {
 
 <div class="quarto-listing quarto-listing-container-default" id="listing-listing">
 <div class="list quarto-listing-default">
-<div class="quarto-post image-right" data-index="0" data-categories="python" data-listing-date-sort="1691452800000" data-listing-file-modified-sort="1691919566544" data-listing-date-modified-sort="NaN" data-listing-reading-time-sort="1">
+<div class="quarto-post image-right" data-index="0" data-categories="python" data-listing-date-sort="1691452800000" data-listing-file-modified-sort="1691924095818" data-listing-date-modified-sort="NaN" data-listing-reading-time-sort="1">
 <div class="thumbnail">
 <p><a href="./posts/algorithims/histogram_max_area.html"> <p class="card-img-top"><img src="posts/algorithims/histogram_max_area_files/figure-html/cell-4-output-1.png"  class="thumbnail-image card-img"/></p> </a></p>
 </div>
@@ -205,7 +205,7 @@ KO
 </a>
 </div>
 </div>
-<div class="quarto-post image-right" data-index="1" data-categories="python" data-listing-date-sort="1661644800000" data-listing-file-modified-sort="1691919566580" data-listing-date-modified-sort="NaN" data-listing-reading-time-sort="1">
+<div class="quarto-post image-right" data-index="1" data-categories="python" data-listing-date-sort="1661644800000" data-listing-file-modified-sort="1691924095850" data-listing-date-modified-sort="NaN" data-listing-reading-time-sort="1">
 <div class="thumbnail">
 <p><a href="./posts/code/quarto_notebook_test.html"> <p class="card-img-top"><img src="posts/code/quarto_notebook_test_files/figure-html/fig-polar-output-1.png"  class="thumbnail-image card-img"/></p> </a></p>
 </div>
@@ -240,7 +240,7 @@ KO
 </a>
 </div>
 </div>
-<div class="quarto-post image-right" data-index="2" data-categories="windows" data-listing-date-sort="1603843200000" data-listing-file-modified-sort="1691919566580" data-listing-date-modified-sort="NaN" data-listing-reading-time-sort="1">
+<div class="quarto-post image-right" data-index="2" data-categories="windows" data-listing-date-sort="1603843200000" data-listing-file-modified-sort="1691924095850" data-listing-date-modified-sort="NaN" data-listing-reading-time-sort="1">
 <div class="thumbnail">
 <p><a href="./posts/windows.html"> <div class="listing-item-img-placeholder card-img-top" >&nbsp;</div> </a></p>
 </div>
@@ -275,7 +275,7 @@ KO
 </a>
 </div>
 </div>
-<div class="quarto-post image-right" data-index="3" data-categories="algorithims,python" data-listing-date-sort="1597017600000" data-listing-file-modified-sort="1691919566544" data-listing-date-modified-sort="1613260800000" data-listing-reading-time-sort="3">
+<div class="quarto-post image-right" data-index="3" data-categories="algorithims,python" data-listing-date-sort="1597017600000" data-listing-file-modified-sort="1691924095818" data-listing-date-modified-sort="1613260800000" data-listing-reading-time-sort="3">
 <div class="thumbnail">
 <p><a href="./posts/code/advent-of-code-2015/index.html"> <p class="card-img-top"><img src="posts/code/advent-of-code-2015/index_files/figure-html/cell-6-output-2.png"  class="thumbnail-image card-img"/></p> </a></p>
 </div>
@@ -313,7 +313,7 @@ KO
 </a>
 </div>
 </div>
-<div class="quarto-post image-right" data-index="4" data-categories="algorithims,python" data-listing-date-sort="1533859200000" data-listing-file-modified-sort="1691919566576" data-listing-date-modified-sort="1581638400000" data-listing-reading-time-sort="1">
+<div class="quarto-post image-right" data-index="4" data-categories="algorithims,python" data-listing-date-sort="1533859200000" data-listing-file-modified-sort="1691924095846" data-listing-date-modified-sort="1581638400000" data-listing-reading-time-sort="1">
 <div class="thumbnail">
 <p><a href="./posts/code/flood_fill.html"> <p class="card-img-top"><img src="posts/code/flood_fill_files/figure-html/cell-4-output-1.png"  class="thumbnail-image card-img"/></p> </a></p>
 </div>
